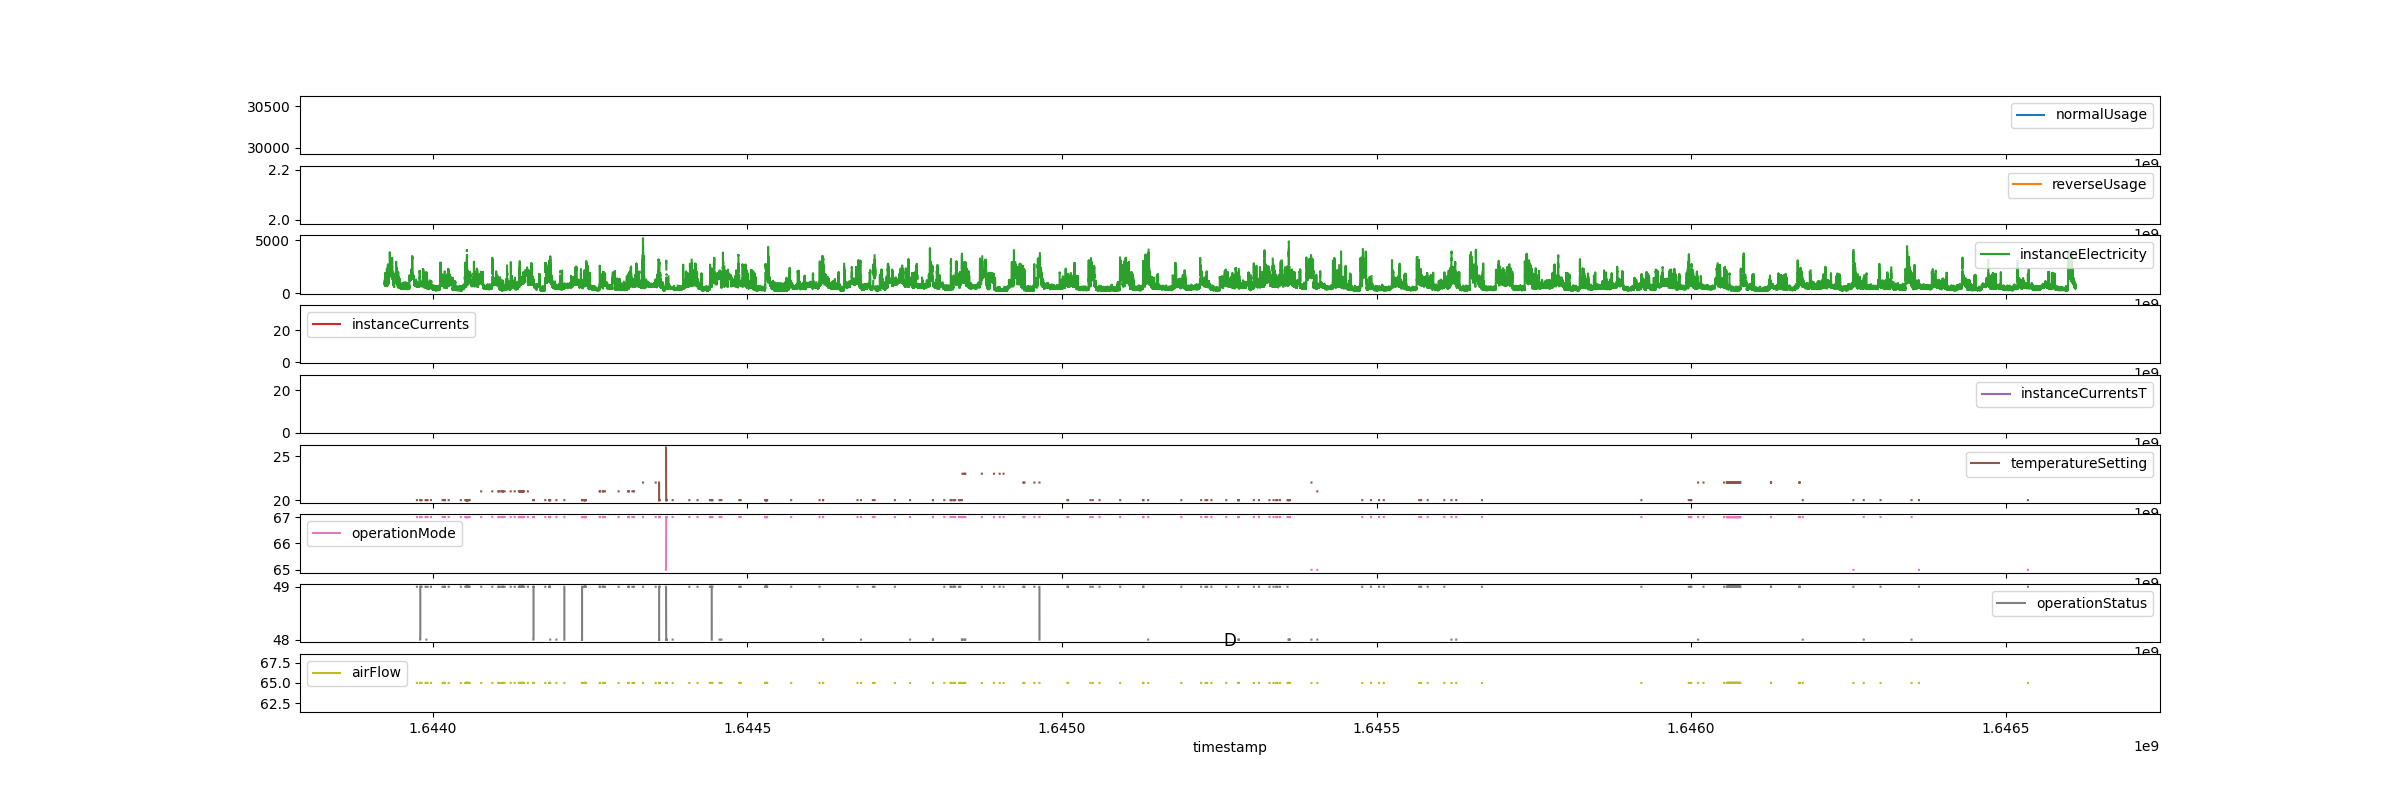
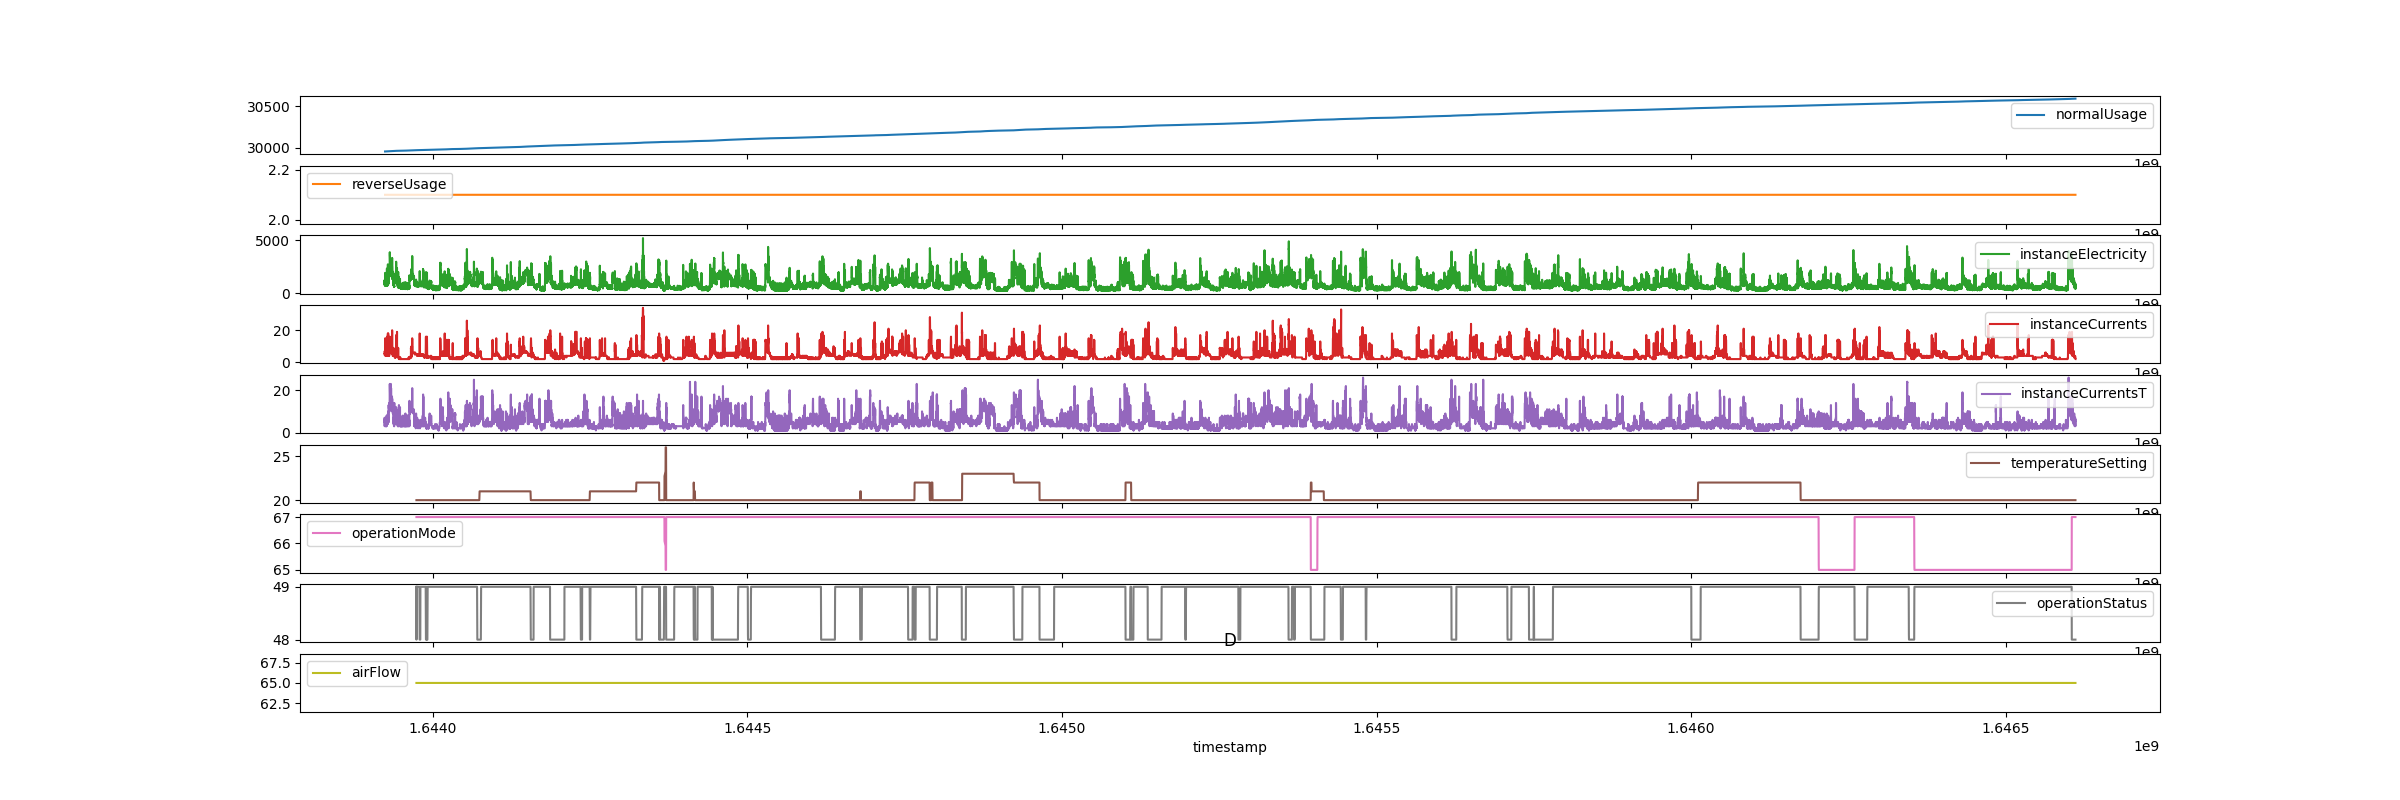
plot

diff --git a/plot.py b/plot.py
@@ -8,6 +8,6 @@ for user in users:
     df = pd.read_csv(f'data/{user}_out.csv')
 
     cols = df.columns
-    df.plot.line(x='timestamp', subplots=True, figsize=(24,8))
+    df.interpolate('linear').plot.line(x='timestamp', subplots=True, figsize=(24,8))
     plt.title(user)
     plt.savefig(f'data/plot/{user}_out.png')
